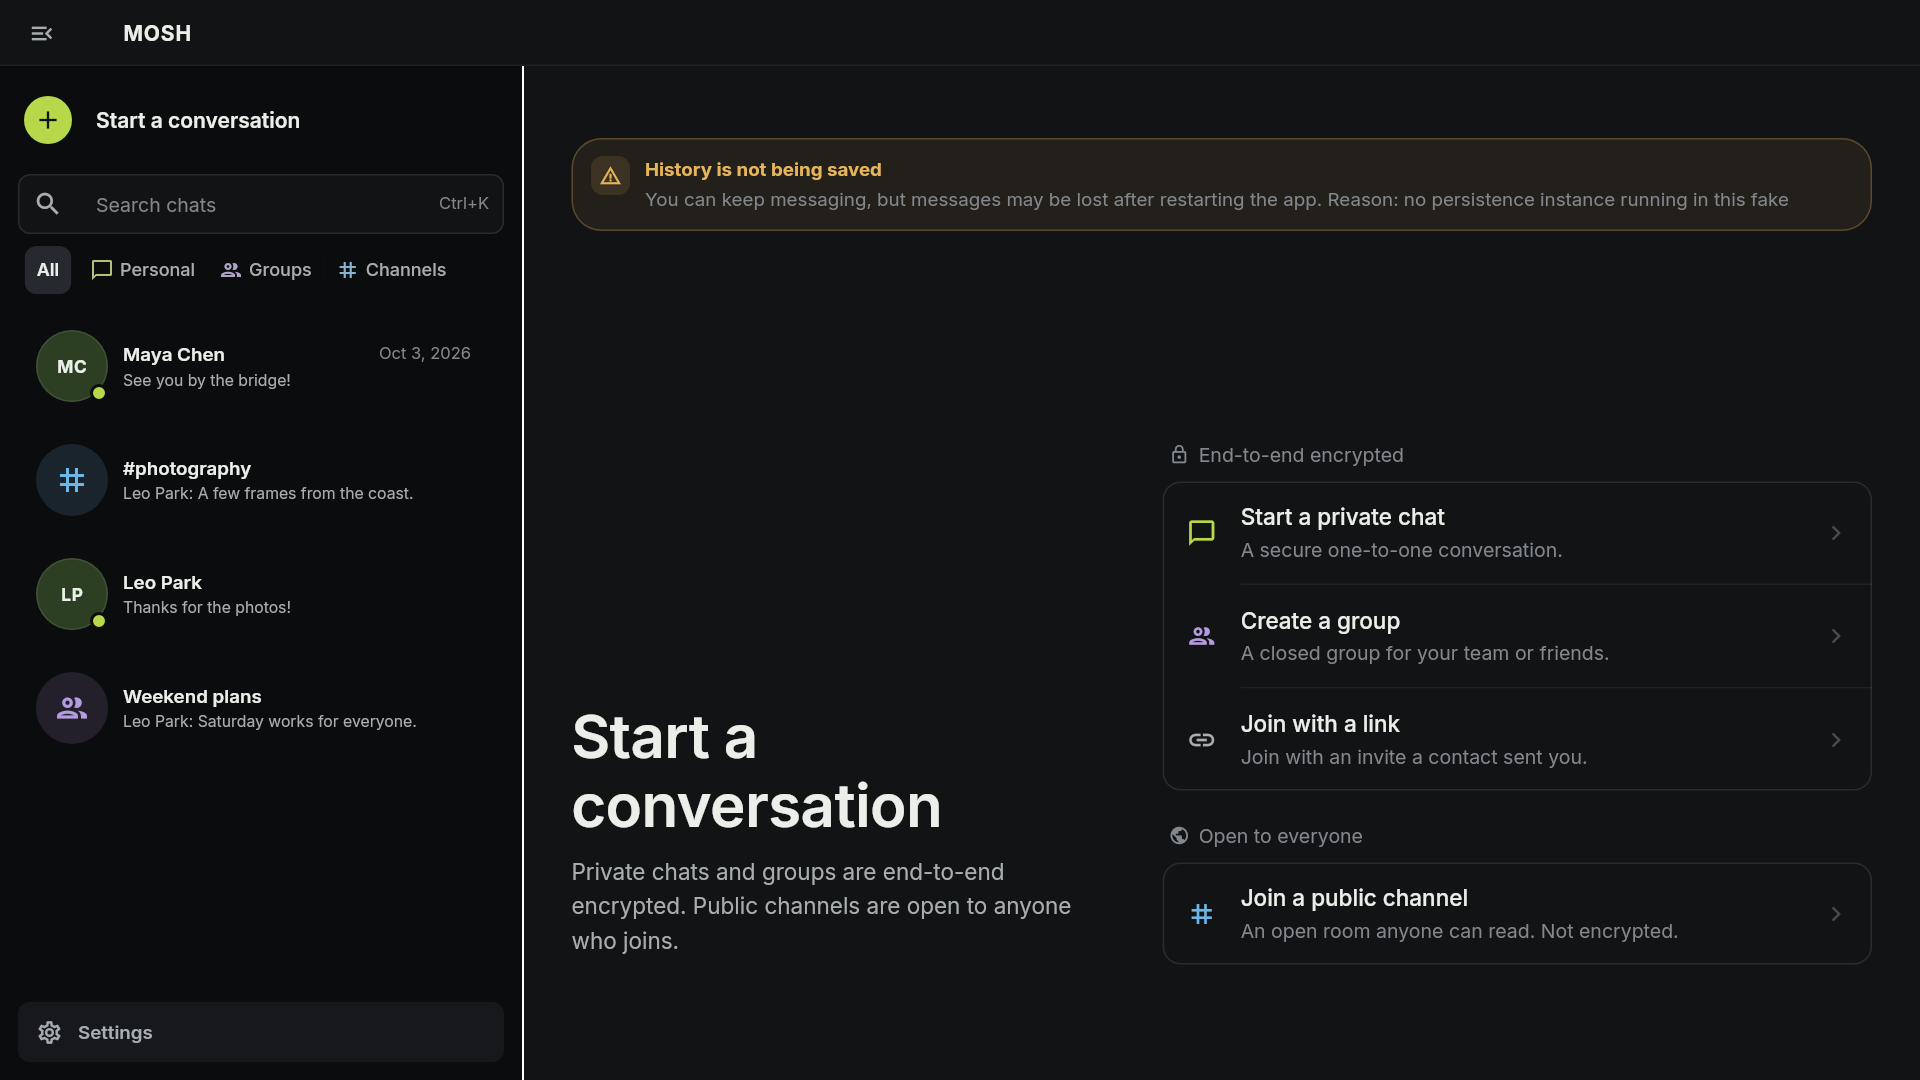
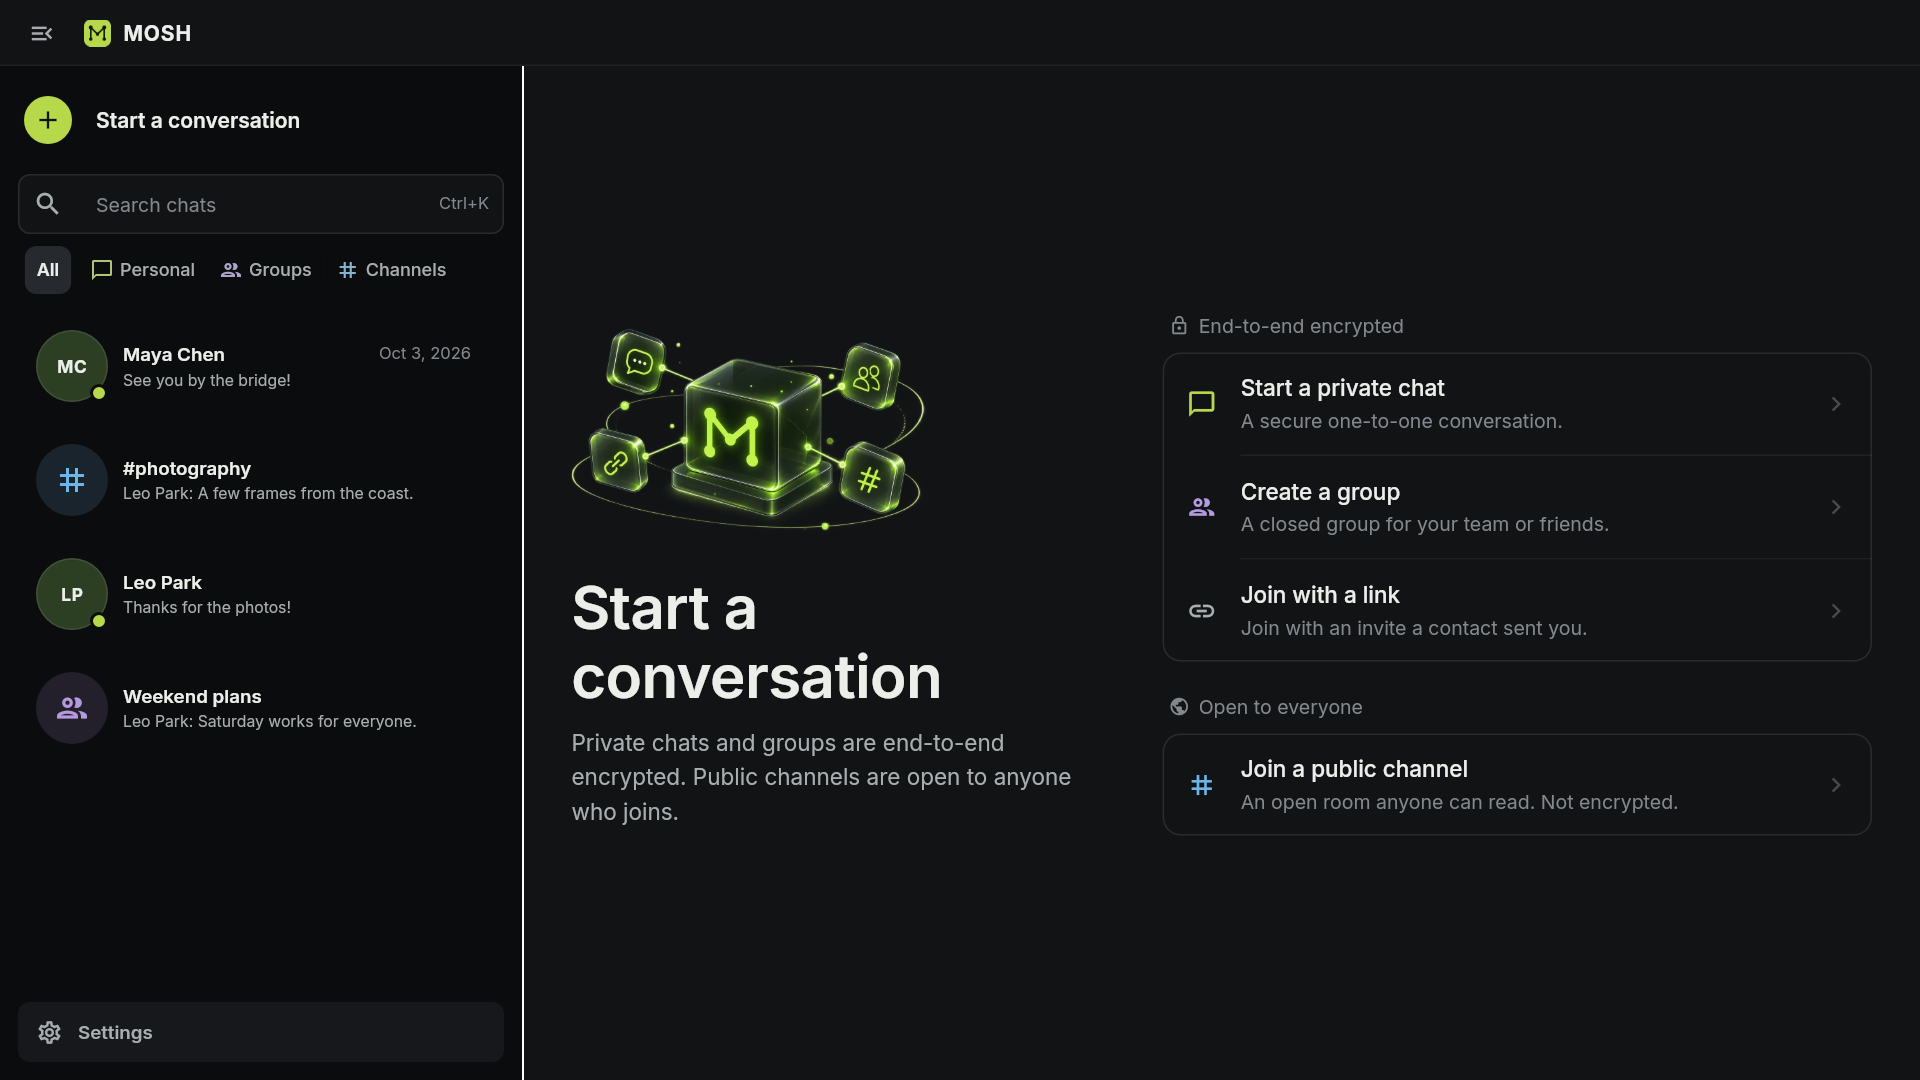
fix(store): address review of the store listings
Screenshots: the desktop chat list no longer shows the test double's
"history is not being saved" banner, images finish loading before
capture, and one savePreviewPng helper replaces the three PNG writers.
The call shot reuses the native call fixture.

Texts: linked devices continue text chats, and the Android changelog
drops a desktop-only fix. The listing test also checks that both
languages carry the same changelogs.

Refs IVO-154

diff --git a/scripts/capture_store.dart b/scripts/capture_store.dart
@@ -3,17 +3,15 @@
 //
 // Writes phone shots (1080 × 1920) where F-Droid and RuStore read them, and
 // desktop shots (1920 × 1080) for Microsoft Store, in English and Russian.
-import 'dart:io';
-import 'dart:ui' as ui;
 
 import 'package:flutter/material.dart';
-import 'package:flutter/rendering.dart';
 import 'package:flutter/services.dart';
 import 'package:flutter_test/flutter_test.dart';
 import 'package:mosh/src/features/sessions/sessions_screen.dart';
 import 'package:mosh/src/features/voice_call/call_modal_card.dart';
 import 'package:mosh/src/routing/app_router.dart';
-import 'package:mosh/src/rust/native_call/types.dart' as native;
+import 'package:mosh/src/rust/api/diagnostics.dart' show NativeRuntimeStatus;
+import 'package:mosh/src/rust/persistence.dart' show PersistenceRuntimeStatus;
 import 'package:mosh/src/rust/outbound_delivery.dart';
 import 'package:mosh/src/rust/private_dm_runtime/contracts.dart';
 import 'package:mosh/src/state/locale_preference_store.dart';
@@ -22,7 +20,9 @@ import 'package:mosh/src/state/voice_call_orchestrator_provider.dart';
 
 import '../test/features/routing/shell_harness.dart';
 import '../test/support/first_run_preview.dart';
+import '../test/support/gateway_snapshots.dart';
 import '../test/support/locale.dart';
+import '../test/support/native_call_fixture.dart';
 import '../test/support/message_builders.dart';
 import '../test/support/scriptable_bridge.dart';
 import '../test/support/scriptable_gateway.dart';
@@ -44,11 +44,11 @@ class _Listing {
   final List<(bool mine, String body)> chat;
   final ({
     String friend,
-    String hello,
+    String friendMessage,
     String group,
-    String plans,
+    String groupMessage,
     String channel,
-    String post
+    String channelMessage
   }) others;
 }
 
@@ -68,11 +68,11 @@ const _listings = [
       ],
       others: (
         friend: 'Leo Park',
-        hello: 'Thanks for the photos!',
+        friendMessage: 'Thanks for the photos!',
         group: 'Weekend plans',
-        plans: 'Saturday works for everyone.',
+        groupMessage: 'Saturday works for everyone.',
         channel: 'photography',
-        post: 'A few frames from the coast.',
+        channelMessage: 'A few frames from the coast.',
       )),
   _Listing(Locale('ru'), 'ru-RU',
       me: 'Саша',
@@ -89,27 +89,26 @@ const _listings = [
       ],
       others: (
         friend: 'Лёва Пак',
-        hello: 'Спасибо за фотографии!',
+        friendMessage: 'Спасибо за фотографии!',
         group: 'Планы на выходные',
-        plans: 'Суббота всем подходит.',
+        groupMessage: 'Суббота всем подходит.',
         channel: 'фото',
-        post: 'Пара кадров с побережья.',
+        channelMessage: 'Пара кадров с побережья.',
       )),
 ];
 
 /// A form factor: logical size, export scale and output directory.
 class _Device {
-  const _Device(this.size, this.scale, this.directory, {this.phone = false});
+  const _Device(this.name, this.size, this.scale, this.directory);
+  final String name;
   final Size size;
-  final bool phone;
   final double scale;
   final String Function(String folder) directory;
 }
 
-final _phone = _Device(const Size(360, 640), 3,
-    (folder) => 'fastlane/metadata/android/$folder/images/phoneScreenshots',
-    phone: true);
-final _desktop = _Device(const Size(1280, 720), 1.5,
+final _phone = _Device('phone', const Size(360, 640), 3,
+    (folder) => 'fastlane/metadata/android/$folder/images/phoneScreenshots');
+final _desktop = _Device('desktop', const Size(1280, 720), 1.5,
     (folder) => 'fastlane/metadata/msstore/$folder/screenshots');
 
 final _time = DateTime(2026, 10, 3, 9, 41);
@@ -135,10 +134,9 @@ ScriptableGateway _gateway(_Listing listing, {ActiveCall? call}) {
                   deliveryStatus: MessageDeliveryStatus.sent,
                   read: mine),
           ]),
-      TestSnapshots.dm(
-          sessionId: 'leo',
-          peerDisplayName: o.friend,
-          messages: [TestMessages.dm(fromDevice: o.friend, body: o.hello)]),
+      TestSnapshots.dm(sessionId: 'leo', peerDisplayName: o.friend, messages: [
+        TestMessages.dm(fromDevice: o.friend, body: o.friendMessage)
+      ]),
     ])
     ..seedGroups([
       TestSnapshots.group(
@@ -147,7 +145,9 @@ ScriptableGateway _gateway(_Listing listing, {ActiveCall? call}) {
           deviceFingerprint: 'self',
           messages: [
             TestMessages.group(
-                fromDevice: o.friend, fromFingerprint: 'leo', body: o.plans)
+                fromDevice: o.friend,
+                fromFingerprint: 'leo',
+                body: o.groupMessage)
           ]),
     ])
     ..seedChannels([
@@ -156,47 +156,48 @@ ScriptableGateway _gateway(_Listing listing, {ActiveCall? call}) {
           deviceFingerprint: 'self',
           messages: [
             TestMessages.channel(
-                fromDevice: o.friend, fromFingerprint: 'leo', body: o.post)
+                fromDevice: o.friend,
+                fromFingerprint: 'leo',
+                body: o.channelMessage)
           ]),
     ]);
 }
 
-/// Media state of a connected voice call, as the native owner reports it.
-native.Snapshot _callMedia() => native.Snapshot(
-    sessionId: 'maya',
-    callId: 'walk',
-    ready: true,
-    microphone: true,
-    microphoneRequested: true,
-    microphoneAvailable: true,
-    camera: false,
-    cameraRequested: false,
-    cameraStarting: false,
-    cameraFailed: false,
-    remoteCamera: false,
-    reconnecting: false,
-    failed: false,
-    videoWidth: 0,
-    videoHeight: 0,
-    videoFps: 0,
-    packetsDropped: BigInt.zero,
-    inputs: const [],
-    outputs: const [],
-    cameras: const []);
+/// The canned runtime with history persistence running, as in a real install.
+NativeRuntimeStatus _savingHistory() {
+  final canned = cannedNativeRuntimeStatus();
+  return NativeRuntimeStatus(
+      moss: canned.moss,
+      secureStorage: canned.secureStorage,
+      persistence: const PersistenceRuntimeStatus(
+          backend: 'redb+aes-256-gcm+os-keychain',
+          database: 'mosh.redb',
+          available: true,
+          encryptedAtRest: true),
+      openmlsSmoke: canned.openmlsSmoke,
+      openmlsRoundtrip: canned.openmlsRoundtrip);
+}
 
 Future<NativeCallOwner> _open(
     WidgetTester tester, _Listing listing, _Device device,
     {String location = AppRoutes.sessions, ActiveCall? call}) async {
   final gateway = _gateway(listing, call: call);
-  final bridge = ScriptableBridge(conversations: gateway.conversations);
+  final bridge = ScriptableBridge(conversations: gateway.conversations)
+    ..seedNativeRuntimeStatus(_savingHistory());
   // A phone hands calls to the Android owner, which shows the full-screen
   // call; desktop keeps the in-app call strip.
-  final phoneCall = call != null && device.phone;
+  final phoneCall = call != null && device == _phone;
   final owner = NativeCallOwner(bridge, () async => true);
   if (phoneCall) {
+    // The owner polls media state; this covers the frames pumped below.
     for (var i = 0; i < 20; i++) {
       bridge.respondNext(
-          BridgeMethod.nativeCallSnapshot, Future.value(_callMedia()));
+          BridgeMethod.nativeCallSnapshot,
+          Future.value(nativeCallSnapshot(
+              sessionId: 'maya',
+              callId: 'walk',
+              microphone: true,
+              remoteCamera: false)));
     }
   }
   await pumpShellApp(tester,
@@ -217,40 +218,31 @@ Future<NativeCallOwner> _open(
 Future<void> _save(
     WidgetTester tester, _Listing listing, _Device device, int index) async {
   expect(tester.takeException(), isNull);
-  await tester.pump();
-  final boundary = tester
-      .firstRenderObject<RenderRepaintBoundary>(find.byType(RepaintBoundary));
-  await tester.runAsync(() async {
-    final image = await boundary.toImage(pixelRatio: device.scale);
-    try {
-      final png = await image.toByteData(format: ui.ImageByteFormat.png);
-      final file = File('${device.directory(listing.folder)}/$index.png');
-      await file.parent.create(recursive: true);
-      await file.writeAsBytes(png!.buffer.asUint8List());
-    } finally {
-      image.dispose();
-    }
-  });
+  await savePreviewPng(tester, find.byType(RepaintBoundary),
+      '${device.directory(listing.folder)}/$index.png',
+      pixelRatio: device.scale);
   await tester.pumpWidget(const SizedBox.shrink());
   await tester.pumpAndSettle();
 }
 
 void main() {
-  setUp(() {
-    const recorder = MethodChannel('com.llfbandit.record/messages');
-    TestDefaultBinaryMessengerBinding.instance.defaultBinaryMessenger
-        .setMockMethodCallHandler(recorder, (call) async => null);
-  });
+  // The composer's voice recorder probes its plugin on build.
+  const recorder = MethodChannel('com.llfbandit.record/messages');
+  TestDefaultBinaryMessenger messenger() =>
+      TestDefaultBinaryMessengerBinding.instance.defaultBinaryMessenger;
+  setUp(
+      () => messenger().setMockMethodCallHandler(recorder, (_) async => null));
+  tearDown(() => messenger().setMockMethodCallHandler(recorder, null));
 
   for (final listing in _listings) {
-    _capture(listing, 'phone', _phone);
-    _capture(listing, 'desktop', _desktop);
+    _capture(listing, _phone);
+    _capture(listing, _desktop);
   }
 }
 
 /// The four store screens for one language and form factor, in listing order.
-void _capture(_Listing listing, String name, _Device device) {
-  final tag = '${listing.folder} $name';
+void _capture(_Listing listing, _Device device) {
+  final tag = '${listing.folder} ${device.name}';
 
   testWidgets('$tag chats', (tester) async {
     await prepareSetupPreview(tester);

diff --git a/scripts/capture_readme.dart b/scripts/capture_readme.dart
@@ -2,10 +2,8 @@
 // flutter test scripts/capture_readme.dart --dart-define=SETUP_PREVIEW=true
 import 'dart:convert';
 import 'dart:io';
-import 'dart:ui' as ui;
 
 import 'package:flutter/material.dart';
-import 'package:flutter/rendering.dart';
 import 'package:flutter/services.dart';
 import 'package:flutter_test/flutter_test.dart';
 import 'package:mosh/src/features/onboarding/first_run_profile.dart';
@@ -102,27 +100,6 @@ ScriptableGateway _gateway() => ScriptableGateway()
         ]),
   ]);
 
-Future<void> _save(WidgetTester tester) async {
-  for (final element in find.byType(Image).evaluate()) {
-    await tester.runAsync(
-        () => precacheImage((element.widget as Image).image, element));
-  }
-  await tester.pump();
-  final boundary = tester
-      .firstRenderObject<RenderRepaintBoundary>(find.byType(RepaintBoundary));
-  await tester.runAsync(() async {
-    final image = await boundary.toImage(pixelRatio: 1.5);
-    try {
-      final png = await image.toByteData(format: ui.ImageByteFormat.png);
-      final file = File('docs/assets/chat-desktop.png');
-      await file.parent.create(recursive: true);
-      await file.writeAsBytes(png!.buffer.asUint8List());
-    } finally {
-      image.dispose();
-    }
-  });
-}
-
 void main() {
   testWidgets('capture first-run setup with a sample display name',
       (tester) async {
@@ -155,7 +132,9 @@ void main() {
     await tester.pumpAndSettle();
     expect(find.text('Coffee after the walk?'), findsOneWidget);
     expect(tester.takeException(), isNull);
-    await _save(tester);
+    await savePreviewPng(
+        tester, find.byType(RepaintBoundary), 'docs/assets/chat-desktop.png',
+        pixelRatio: 1.5);
     await tester.pumpWidget(const SizedBox.shrink());
     await tester.pumpAndSettle();
   });

diff --git a/test/support/first_run_preview.dart b/test/support/first_run_preview.dart
@@ -30,18 +30,30 @@ Future<ByteData> _read(String path) async =>
 /// Capture the real Flutter tree only when the optional preview is requested.
 Future<void> saveSetupPreview(WidgetTester tester, String name) async {
   if (!_enabled) return;
+  await savePreviewPng(
+      tester, find.byKey(const ValueKey('setup-preview')), 'build/$name.png');
+}
+
+/// Writes the repaint boundary at [boundary] to [path] as a PNG, after its
+/// images have decoded. Preview scripts use it to export documentation and
+/// store screenshots.
+Future<void> savePreviewPng(WidgetTester tester, Finder boundary, String path,
+    {double pixelRatio = 1}) async {
   for (final element in find.byType(Image).evaluate()) {
     await tester.runAsync(
         () => precacheImage((element.widget as Image).image, element));
   }
   await tester.pump();
-  final boundary = tester.renderObject<RenderRepaintBoundary>(
-      find.byKey(const ValueKey('setup-preview')));
+  final render = tester.firstRenderObject<RenderRepaintBoundary>(boundary);
   await tester.runAsync(() async {
-    final picture = await boundary.toImage();
-    final png = await picture.toByteData(format: ui.ImageByteFormat.png);
-    picture.dispose();
-    await Directory('build').create();
-    await File('build/$name.png').writeAsBytes(png!.buffer.asUint8List());
+    final image = await render.toImage(pixelRatio: pixelRatio);
+    try {
+      final png = await image.toByteData(format: ui.ImageByteFormat.png);
+      final file = File(path);
+      await file.parent.create(recursive: true);
+      await file.writeAsBytes(png!.buffer.asUint8List());
+    } finally {
+      image.dispose();
+    }
   });
 }

diff --git a/test/support/native_call_fixture.dart b/test/support/native_call_fixture.dart
@@ -4,6 +4,7 @@ native.Snapshot nativeCallSnapshot(
         {String sessionId = 'dm',
         String callId = 'call',
         bool microphoneRequested = true,
+        bool microphone = false,
         bool camera = false,
         bool remoteCamera = true,
         bool cameraFailed = false}) =>
@@ -11,9 +12,9 @@ native.Snapshot nativeCallSnapshot(
         sessionId: sessionId,
         callId: callId,
         ready: true,
-        microphone: false,
+        microphone: microphone,
         microphoneRequested: microphoneRequested,
-        microphoneAvailable: false,
+        microphoneAvailable: microphone,
         camera: camera,
         cameraRequested: camera,
         cameraStarting: false,

diff --git a/test/features/routing/shell_harness.dart b/test/features/routing/shell_harness.dart
@@ -44,7 +44,8 @@ SessionSnapshot shellSession(
 
 /// Pumps MoshApp at [physical] logical pixels (device pixel ratio 1), with
 /// the router reset to [location] (the rail by default) so a prior test's
-/// location does not leak.
+/// location does not leak. [bridge] replaces the bridge built over
+/// [gateway]; [overrides] adds providers after the defaults.
 Future<void> pumpShellApp(
   WidgetTester tester, {
   required ScriptableGateway gateway,
